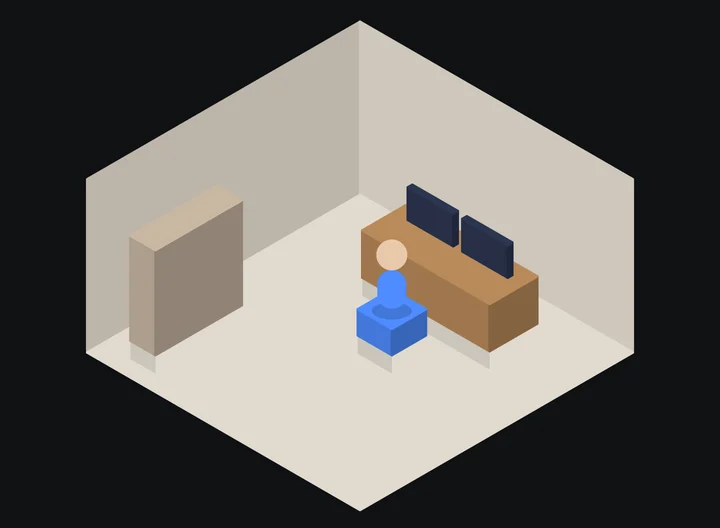
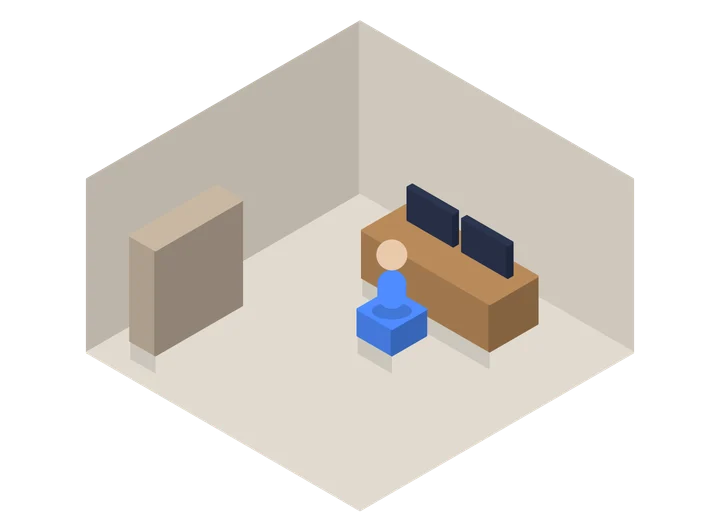
Stage browser checks: render, fixed wallpaper, drag, connect, frame rate; transparent rooms, stronger dot grid

diff --git a/app/e2e/stage.spec.ts b/app/e2e/stage.spec.ts
@@ -1,0 +1,79 @@
+import { expect, test, type Page } from '@playwright/test';
+
+const node = (page: Page, id: string) => page.locator(`.react-flow__node[data-id="${id}"]`);
+const handle = (page: Page, id: string, side: string) => node(page, id).locator(`.react-flow__handle[data-handleid="${side}"]`);
+
+async function drag(page: Page, from: { x: number; y: number }, to: { x: number; y: number }, steps = 12) {
+  await page.mouse.move(from.x, from.y);
+  await page.mouse.down();
+  await page.mouse.move(to.x, to.y, { steps });
+  await page.mouse.up();
+}
+
+test.beforeEach(async ({ page }) => {
+  await page.goto('/');
+  await expect(page.locator('.react-flow__node')).toHaveCount(4);
+});
+
+test('shows three rooms, one card and two wires, with every image loaded', async ({ page }) => {
+  await expect(page.locator('.react-flow__edge')).toHaveCount(2);
+  const widths = await page.locator('.card__body img').evaluateAll((imgs) => imgs.map((img) => (img as HTMLImageElement).naturalWidth));
+  expect(widths).toHaveLength(3);
+  for (const width of widths) expect(width).toBeGreaterThan(0);
+  await expect(page.locator('button, .react-flow__minimap, .react-flow__controls, .react-flow__attribution')).toHaveCount(0);
+});
+
+test('the wallpaper stays still while the rooms pan', async ({ page }) => {
+  const stage = page.locator('.stage');
+  const snapshot = () => stage.evaluate((el) => `${getComputedStyle(el).backgroundPosition}|${JSON.stringify(el.getBoundingClientRect())}`);
+  const before = (await node(page, 'founder').boundingBox())!;
+  const wallpaperBefore = await snapshot();
+  await drag(page, { x: 20, y: 20 }, { x: 220, y: 140 });
+  const after = (await node(page, 'founder').boundingBox())!;
+  expect(after.x - before.x).toBeGreaterThan(150);
+  expect(await snapshot()).toBe(wallpaperBefore);
+});
+
+test('a room drags and a wire can be drawn between two handles', async ({ page }) => {
+  const box = (await node(page, 'build').boundingBox())!;
+  await drag(page, { x: box.x + 40, y: box.y + 12 }, { x: box.x + 40, y: box.y + 92 });
+  const moved = (await node(page, 'build').boundingBox())!;
+  expect(moved.y - box.y).toBeGreaterThan(40);
+
+  const from = (await handle(page, 'build', 'l').boundingBox())!;
+  const to = (await handle(page, 'founder', 'b').boundingBox())!;
+  await drag(page, { x: from.x + from.width / 2, y: from.y + from.height / 2 }, { x: to.x + to.width / 2, y: to.y + to.height / 2 }, 20);
+  await expect(page.locator('.react-flow__edge')).toHaveCount(3);
+});
+
+test('screenshots at three zoom levels', async ({ page }, info) => {
+  const shot = (name: string) => page.screenshot({ path: `.shots/${info.project.name}-${name}.png` });
+  await page.waitForTimeout(400);
+  await shot('1-fit');
+  await page.mouse.move(800, 500);
+  await page.mouse.wheel(0, -500);
+  await page.waitForTimeout(400);
+  await shot('2-near');
+  await page.mouse.wheel(0, 1400);
+  await page.waitForTimeout(400);
+  await shot('3-far');
+});
+
+test('dragging a frosted card keeps a usable frame rate', async ({ page }, info) => {
+  const box = (await node(page, 'founder').boundingBox())!;
+  await page.evaluate(() => {
+    const w = window as unknown as { __frames: number; __t0: number };
+    w.__frames = 0;
+    w.__t0 = performance.now();
+    const tick = () => { w.__frames += 1; requestAnimationFrame(tick); };
+    requestAnimationFrame(tick);
+  });
+  await drag(page, { x: box.x + 40, y: box.y + 12 }, { x: box.x + 440, y: box.y + 212 }, 90);
+  const fps = await page.evaluate(() => {
+    const w = window as unknown as { __frames: number; __t0: number };
+    return (w.__frames * 1000) / (performance.now() - w.__t0);
+  });
+  info.annotations.push({ type: 'fps', description: fps.toFixed(1) });
+  console.log(`${info.project.name} drag fps: ${fps.toFixed(1)}`);
+  expect(fps).toBeGreaterThan(30);
+});

diff --git a/app/playwright.config.ts b/app/playwright.config.ts
@@ -1,0 +1,12 @@
+import { defineConfig, devices } from '@playwright/test';
+
+export default defineConfig({
+  testDir: 'e2e',
+  outputDir: 'test-results',
+  use: { baseURL: 'http://localhost:7420', viewport: { width: 1600, height: 1000 } },
+  webServer: { command: 'pnpm dev', url: 'http://localhost:7420', reuseExistingServer: true },
+  projects: [
+    { name: 'chromium', use: { ...devices['Desktop Chrome'], viewport: { width: 1600, height: 1000 } } },
+    { name: 'webkit', use: { ...devices['Desktop Safari'], viewport: { width: 1600, height: 1000 } } },
+  ],
+});

diff --git a/app/src/App.tsx b/app/src/App.tsx
@@ -38,7 +38,7 @@ export default function App() {
         maxZoom={2}
         proOptions={{ hideAttribution: true }}
       >
-        <Background variant={BackgroundVariant.Dots} gap={24} size={1.2} color="rgba(255, 255, 255, 0.16)" bgColor="transparent" />
+        <Background variant={BackgroundVariant.Dots} gap={24} size={1.5} color="rgba(255, 255, 255, 0.24)" bgColor="transparent" />
       </ReactFlow>
     </div>
   );
